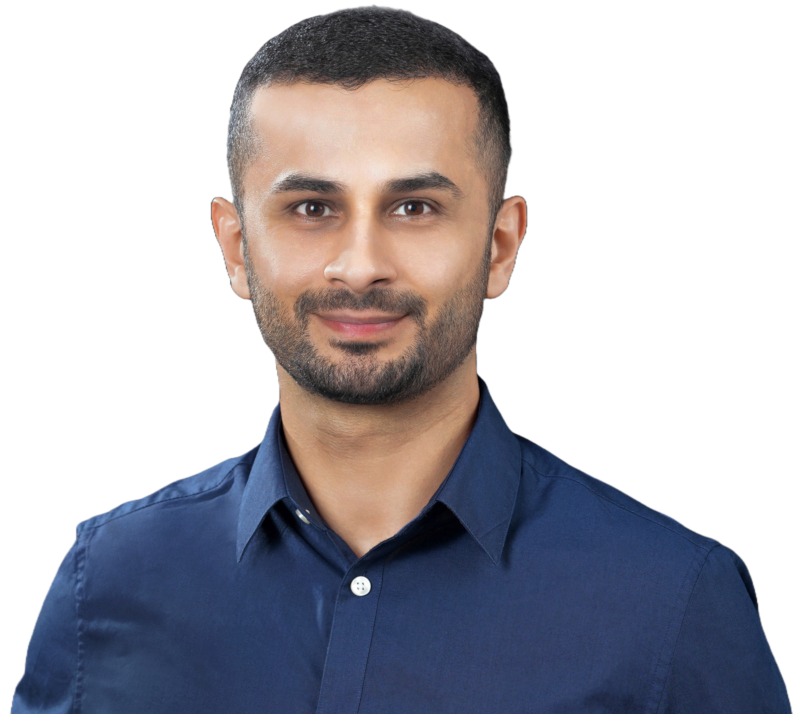
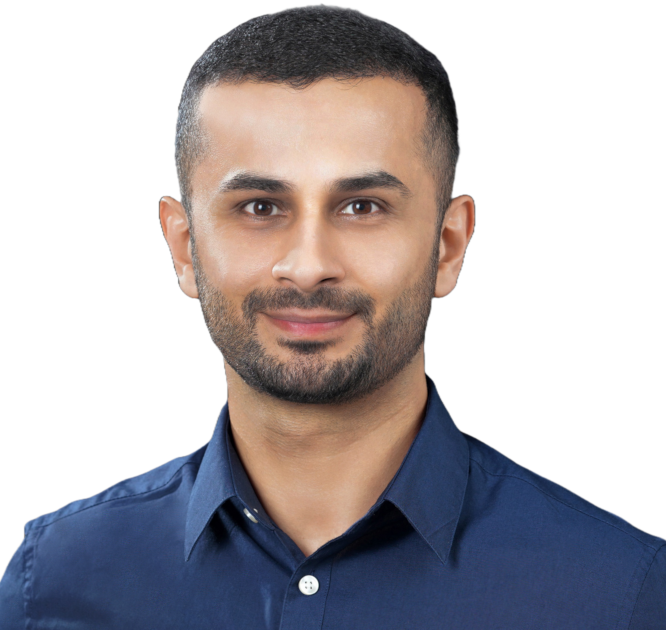
about me img responsive

diff --git a/src/app/main-website/about-me/about-me.component.scss b/src/app/main-website/about-me/about-me.component.scss
@@ -47,10 +47,10 @@
   align-items: center;
 
   img {
-    width: 453px;
-    height: 453px;
+    width: 420px;
+    height: 420px;
     object-fit: cover;
-    object-position: 8px 22px;
+    object-position: -2px 18px;
     border: 4px solid var(--green);
     border-radius: 100%;
   }
@@ -110,17 +110,13 @@
   .text-container {
     max-width: 530px;
   }
-
-  .img-container {
-    margin-top: 0;
-  }
 }
 
 
 @media (max-width: 1400px) {
   .img-container img {
-    width: 400px;
-    height: 400px;
+    width: 370px;
+    height: 370px;
   }
 
   .img-container {
@@ -145,13 +141,10 @@
   .text-container {
     max-width: 420px;
   }
-}
 
-
-@media (max-width: 1120px) {
   .img-container img {
-    width: 350px;
-    height: 350px;
+    width: 330px;
+    height: 330px;
   }
 }
 
